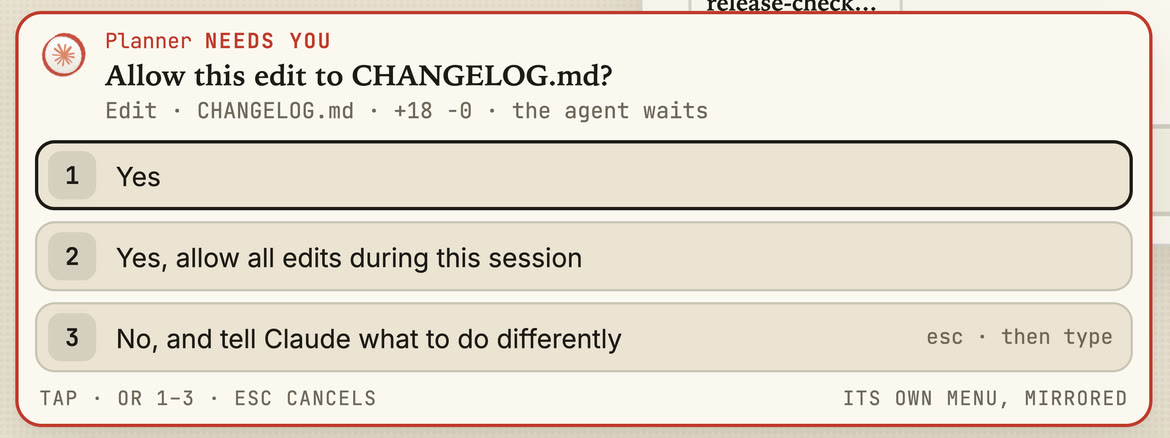
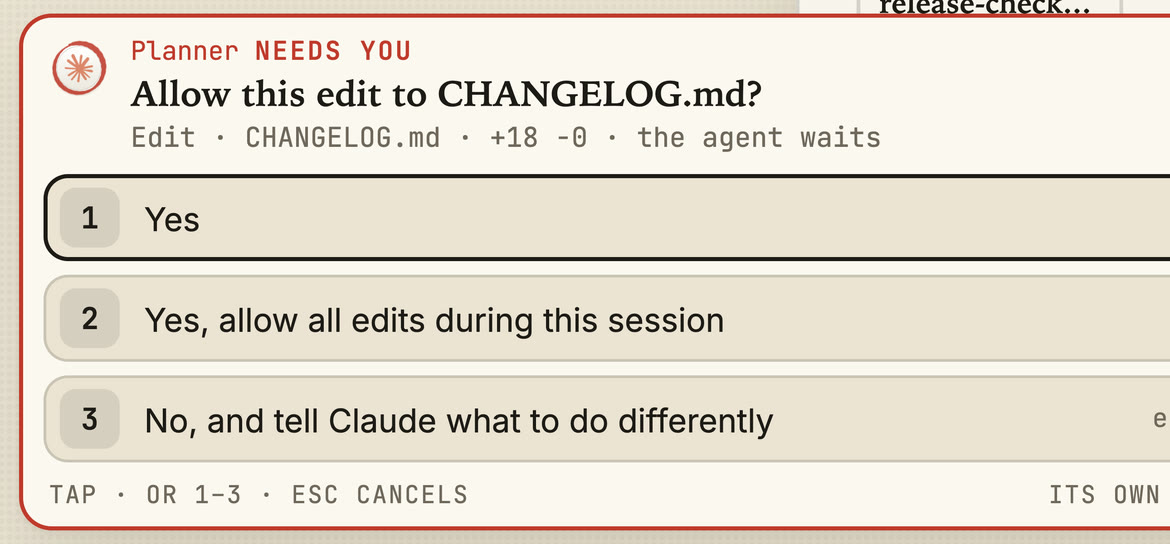
fix(site): phones edge to edge, the question menu framed tighter on a phone, a two-face picture drawn no wider than 720 px
Every figure takes a phone's full width, so a phone render is shown 1:1 and
names read at the app's own size. The HITL phone crop keeps the menu's rows
at ~12 px. Docs Site's two agents are capped at 720 px on a desktop instead
of being blown up to the page. The shoot README follows the new pipeline.

diff --git a/registry/src/site-frames.ts b/registry/src/site-frames.ts
@@ -38,6 +38,8 @@ export interface Frame {
   twins: readonly number[]
   /** Its own framing for a phone screen (<file>-phone.jpg), when the desktop framing would be too small to read there. */
   phone?: { width: number; height: number }
+  /** A sparse picture (two faces) is drawn no wider than this many CSS px on a desktop, not blown up to the page. */
+  maxWidth?: number
 }
 
 /** The words a figure wears for what it is, beside its caption. */
@@ -52,10 +54,10 @@ export const sourceOf = (frame: Frame): FrameSource => frame.source
 /** Where the pictures were made, once, for every caption that needs to say it. */
 export const RENDERED = 'Rendered on 17 Nov 2026 from the app’s code on dev, on demo data.'
 
-const demo = (file: string, alt: string, caption: string, source: FrameSource = 'illustration'): Frame => {
+const demo = (file: string, alt: string, caption: string, source: FrameSource = 'illustration', maxWidth?: number): Frame => {
   const size = FRAME_SIZES[file]
   if (!size) throw new Error(`site-frames: no size for ${file}; run scripts/site-demo/assets.mjs`)
-  return { file, alt, caption, source, width: size.width, height: size.height, twins: size.twins, ...(size.phone ? { phone: size.phone } : {}) }
+  return { file, alt, caption, source, width: size.width, height: size.height, twins: size.twins, ...(size.phone ? { phone: size.phone } : {}), ...(maxWidth ? { maxWidth } : {}) }
 }
 
 /**
@@ -91,7 +93,7 @@ export const DEMO = {
   browserCard: demo('demo-browser-card.jpg', 'A browser card open on a release-notes page, used by Checker',
     'Clicked Release notes: the browser card opened on the page Checker checked, a local demo page, with the agent that uses it named at the top right.'),
   docsCrew: demo('demo-docs-crew.jpg', 'A second workspace, Docs Site: Writer waiting on you, Editor done',
-    'Clicked Docs Site, the second workspace on the same machine: Writer on Claude Code waiting on you, Editor on Codex done.')
+    'Clicked Docs Site, the second workspace on the same machine: Writer on Claude Code waiting on you, Editor on Codex done.', 'illustration', 720)
 } as const satisfies Record<string, Frame>
 
 export type DemoKey = keyof typeof DEMO
@@ -130,5 +132,6 @@ export function figure(frame: Frame, options: { sizes?: string; note?: string; e
   const portrait = frame.height > frame.width
   const note = options.note ? ` ${escText(options.note)}` : ''
   const cls = `shot ${source}${portrait ? ' portrait' : ''}${options.cls ? ` ${options.cls}` : ''}`
-  return `<figure class="${cls}" data-source="${source}">${frameImg(frame, { sizes: options.sizes, eager: options.eager })}<figcaption><span class="rec src-${source}">${escText(SOURCE_CHIP[source])}</span><span>${escText(frame.caption)}${note}</span></figcaption></figure>`
+  const style = frame.maxWidth ? ` style="--max:${frame.maxWidth}px"` : ''
+  return `<figure class="${cls}${frame.maxWidth ? ' narrow' : ''}" data-source="${source}"${style}>${frameImg(frame, { sizes: options.sizes, eager: options.eager })}<figcaption><span class="rec src-${source}">${escText(SOURCE_CHIP[source])}</span><span>${escText(frame.caption)}${note}</span></figcaption></figure>`
 }

diff --git a/registry/src/site-shell.ts b/registry/src/site-shell.ts
@@ -510,12 +510,13 @@ figure.shot.illustration,figure.shot.composite{background:var(--cream-md)}
 .feature-shots{display:grid;gap:22px;margin-inline:calc(50% - min(696px, 50vw - 24px))}
 .feature-shots.pair{grid-template-columns:repeat(2,minmax(0,420px));justify-content:center}
 .feature-shots figure.clip{max-width:1024px;width:100%;justify-self:center}
+.feature-shots figure.narrow{max-width:var(--max);width:100%;justify-self:center}
 .clip .on-phone{display:none}
 /* A phone takes each figure's own framing (<picture> source, site-frames.ts PHONE_MEDIA), edge to edge, the chip one small line. */
 @media (max-width:640px){
 .clip .off-phone{display:none}.clip .on-phone{display:block;width:100%;height:auto}
 .feature-shots.pair{grid-template-columns:minmax(0,1fr)}
-figure.shot:not(.portrait){margin-inline:calc(50% - 50vw);border-left:0;border-right:0}
+figure.shot,.feature-shots figure.clip{margin-inline:calc(50% - 50vw);width:auto;max-width:none;border-left:0;border-right:0}
 figure.shot figcaption{padding:8px 16px;font-size:12.5px;gap:4px 10px}
 figure.shot .rec.src-illustration,figure.shot .rec.src-composite{border:0;background:none;padding:0;font-size:7.5px}
 }

diff --git a/registry/src/site-frame-sizes.ts b/registry/src/site-frame-sizes.ts
@@ -17,8 +17,8 @@ export const FRAME_SIZES: Readonly<Record<string, { width: number; height: numbe
     ]
   },
   "demo-docs-crew.jpg": {
-    "width": 2520,
-    "height": 1920,
+    "width": 1920,
+    "height": 1800,
     "twins": [
       1440,
       800
@@ -33,7 +33,7 @@ export const FRAME_SIZES: Readonly<Record<string, { width: number; height: numbe
     ],
     "phone": {
       "width": 1170,
-      "height": 438
+      "height": 544
     }
   },
   "demo-artifacts.jpg": {

diff --git a/scripts/site-demo/README.md b/scripts/site-demo/README.md
@@ -15,14 +15,18 @@ shared/route-fixture.ts (no email, generic group names, no MCP servers).
    editing the seed) and `python3 -m http.server 5398 --bind 127.0.0.1 --directory scripts/site-demo/pages`.
 2. A headless Chrome with `--remote-debugging-port=9334`, its own `--user-data-dir`, `--no-proxy-server` and
    `"--host-resolver-rules=MAP notes.example 127.0.0.1:5398"`. Never the Cookrew app.
-3. Stills: `node scripts/site-demo/walk.mjs <prefix> <w> <h> <mobile 0|1> light '<steps>'` — desktop `d` at 1440×900
-   (d-devices, d-workspaces, d-agents, d-peek: the question from the dock, d-hitl, d-artifacts), phone `p` at 390×844 (p-1-crew, p-2-card), Routing `r`
-   (r-routing). The operation cards: `node scripts/site-demo/ops.mjs`. The canvas clip: `node scripts/site-demo/clip.mjs
-   $SHOOT_DIR/canvas.mp4`.
+3. Stills, at a density that lets each be cropped to its subject without scaling up (`DSF=<scale>`, default 2):
+   - desktop stops, 1024×640 ×6, prefix `h`: h-devices, h-workspaces, h-docs, h-agents, h-hitl, h-artifacts, h-browser,
+     h-board (the BOARD, from `.cr-board-badge`);
+   - 1440×900 ×4, prefix `h`: h-peek (the question from the dock, over all four faces) and h-routing;
+   - phone, 390×844 ×3, prefix `p`: p-devices, p-workspaces, p-crew, p-card.
+   The operation cards: `node scripts/site-demo/ops.mjs` (1024×640 ×2.8125). The canvas clip: `node scripts/site-demo/clip.mjs
+   $SHOOT_DIR/canvas.mp4` (1024×640: a screencast sends CSS pixels whatever the scale, so the site never shows it wider).
 4. Watch: copy `watch/` elsewhere, `python3 -I scripts/site-demo/watch-neutral.py <copy>/Sources/watch-shots/Shots.swift`,
    then `swift run watch-shots $SHOOT_DIR/watch` in the copy (a debug build: the staging helpers are DEBUG-only).
-5. Composites: `node scripts/site-demo/compose.mjs` (hero.png: one question on desktop, phone width and watch; ops.png).
-6. `node scripts/site-demo/assets.mjs registry/assets/site` writes the `demo-*` files at 1400 and 800, then
-   `node scripts/site-og.mjs` (no port: a fresh Chrome, so no cached picture) redraws og-site.jpg.
+5. Composites: `node scripts/site-demo/compose.mjs` (hero and hero-phone, ops and ops-phone-stack, watch-phone).
+6. `node scripts/site-demo/assets.mjs registry/assets/site` crops every frame (the CSS-px boxes are in the script), writes
+   it at up to 2880 with 1440/800 twins and a -phone framing where one is needed, and regenerates
+   registry/src/site-frame-sizes.ts; then `node scripts/site-og.mjs` (no port: a fresh Chrome) redraws og-site.jpg.
 
 Working files go to `$SHOOT_DIR` (default /tmp/cookrew-site-demo).
